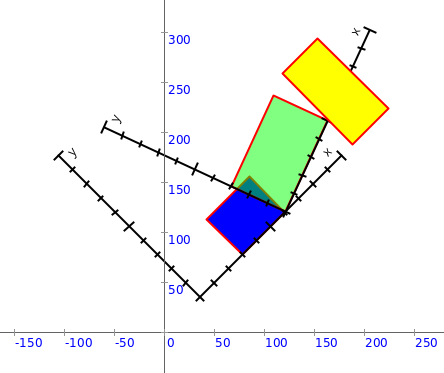
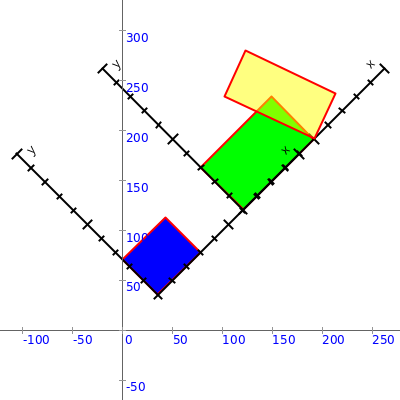
Tweak the coordinate system explanation in picture intro.

diff --git a/tutorials/pictures-intro.md b/tutorials/pictures-intro.md
@@ -231,11 +231,11 @@ The following example shows you three different coordinate systems in action whe
 
 ```scala
 cleari()
-val pic1 = trans(60, 0) * fillColor(blue) -> Picture.rectangle(60, 50)
-val pic2 = rot(20) * fillColor(green.fadeOut(0.5)) -> Picture.rectangle(100, 60)
-val pic3 = fillColor(yellow) -> Picture.rectangle(50, 100)
+val pic1 = fillColor(blue) -> Picture.rectangle(60, 50)
+val pic2 = trans(60, 0) * fillColor(green) -> Picture.rectangle(100, 60)
+val pic3 = rot(20) * fillColor(yellow.fadeOut(0.5)) -> Picture.rectangle(50, 100)
 val pics = rot(45) * trans(50, 0) -> picRow(pic1, pic2, pic3)
-draw(pics)
+drawCentered(pics)
 showAxes()
 Picture.showAxes(pics, pic2)
 ```
@@ -245,9 +245,9 @@ Picture.showAxes(pics, pic2)
 ---
 
 In the figure above, you see the axes for the following coordinate systems:
-* The canvas coordinate system
-* The coordinate system for `pics`, which lives within the coordinate system of its parent - the canvas (pics.position is (35.36, 35.36)).
-* The coordinate system for `pic2` (in translucent green), which lives within the coordinate system of its parent - `pics` (pic2.position is (121.00, 0.00)).
+* The canvas coordinate system (with axes in gray with a tick spacing of 50 units).
+* The coordinate system for `pics` (where the blue picture is, with axes in black with a tick spacing of 20 units). This coordinate system lives within the coordinate system of its parent - the canvas. Within its parent, `pics.position` is (35.36, 35.36).
+* The coordinate system for `pic2` (where the green picture is, with axes in black with a tick spacing of 20 units). This coordinate system lives within the coordinate system of its parent - `pics`. Within its parent, `pic2.position` is (121.00, 0.00).
 
 ### Picture layout with Functions
 
